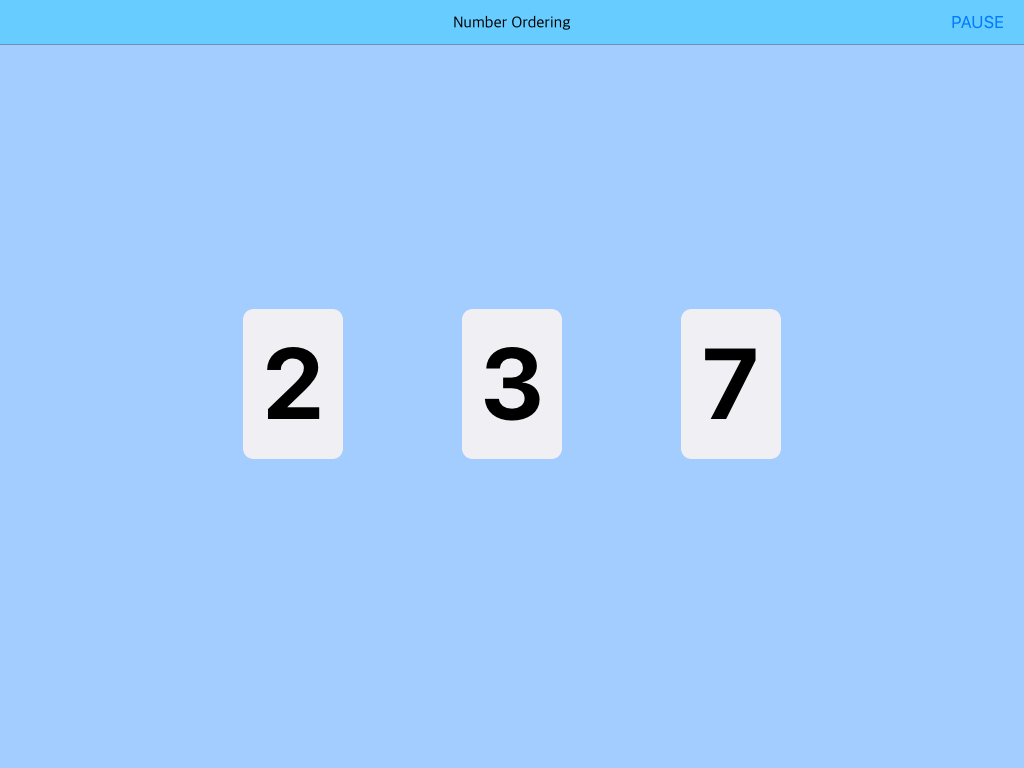
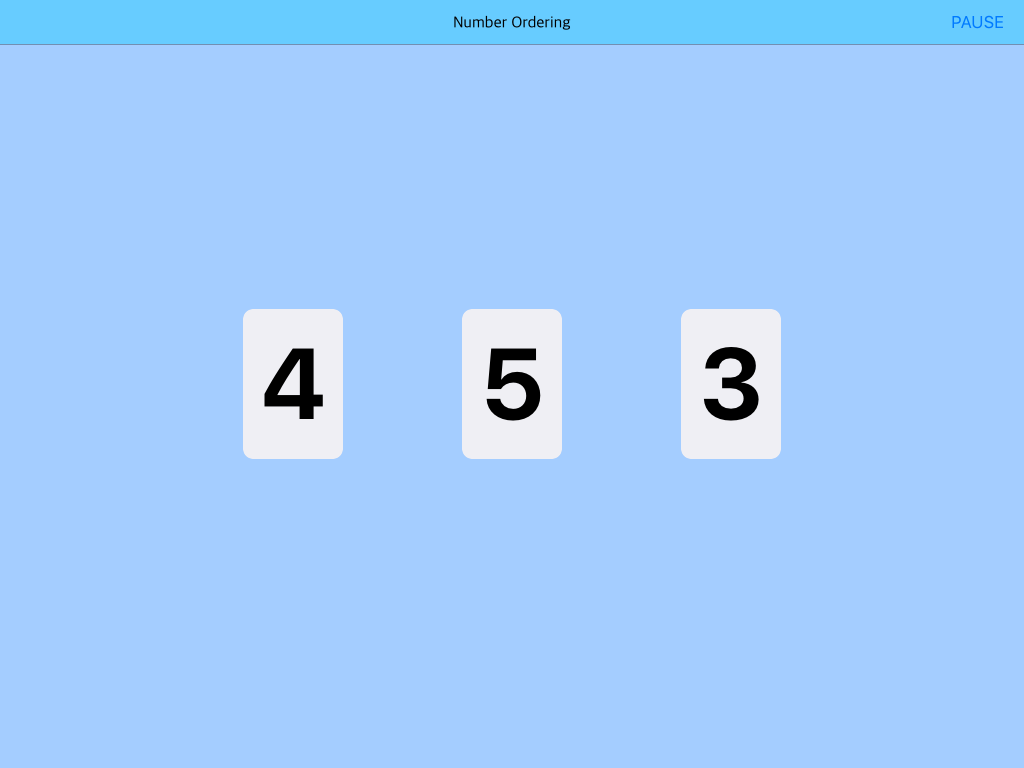
Update model pic and related ppt file

Changed region(s): [[0.6875, 0.4375, 0.75, 0.5625], [0.25, 0.4375, 0.3125, 0.5625], [0.4688, 0.4375, 0.5312, 0.5312]]

diff --git a/UK_presentation_v1.html b/UK_presentation_v1.html
@@ -191,11 +191,11 @@
                          <img class="fragment current-visible" src="img/ipadapp/numorder.png" style="position: absolute; left: 100px; top: 50px; height: 450px; width: 600px">
                         </div>
                         <div style="position:absolute; top: 80px; left: 80px; width:800px; height:600px; margin:0 auto;">
-                        <p class="fragment current-visible" style="font-size: 0.8em">Inhibitory controls (Stroop)</p>
+                        <p class="fragment current-visible" style="font-size: 0.8em">Inhibitory control (Stroop)</p>
                          <img class="fragment current-visible" src="img/ipadapp/blackwhite.png" style="position: absolute; left: 100px; top: 50px; height: 450px; width: 600px">
                         </div>
                         <div style="position:absolute; top: 80px; left: 80px; width:800px; height:600px; margin:0 auto;">
-                        <p class="fragment current-visible" style="font-size: 0.8em">Arithmetic (addition)</p>
+                        <p class="fragment current-visible" style="font-size: 0.8em">Arithmetic associations (addition)</p>
                          <img class="fragment current-visible" src="img/ipadapp/addition.png" style="position: absolute; left: 100px; top: 50px; height: 450px; width: 600px">
                         </div>
                     </section>
@@ -203,19 +203,19 @@
                 </section>
                 <section>
                     <section>
-                        <h3 style="position:absolute; top: -80px; left: 400px;">Finding</h3>
+                        <h3 style="position:absolute; top: -80px; left: 400px;">Findings</h3>
                         <p style="text-align: left">For children in grade 1 and grade 2:</p>
-                        <ul>
-                            <li class="fragment"><strong>Step 1:</strong> Examing integration status for acquisition of ordinal associations
+                        <ul style="font-size: 0.8em">
+                            <li class="fragment"><strong>Step 1: </strong>Integration status
                             </li>
-                            <li class="fragment"><strong>Step 2:</strong> How do basic associations relate to arithmetic associations ?</li>
-                            <li class="fragment"><strong>Step 3:</strong> Which basic associations predict the growth of arithmetic ?
+                            <li class="fragment"><strong>Step 2: </strong>Relations between basic and arithmetic associations</li>
+                            <li class="fragment"><strong>Step 3: </strong>Growth of arithmetic
                             </li>
                         </ul>
                         
                     </section>
                     <section>
-                        <h4 class="fragment fade-out" data-fragment-index="1">Step 1</h4>
+                        <h4 class="fragment fade-out" data-fragment-index="1">Integration status</h4>
                         <h4 class="fragment" data-fragment-index="3">When do childen integrate sequential and cardinal associations to form ordinal associations ?</h4>
                         <p class="fragment" data-fragment-index="4">Grade 2</p>
                         <div class="fragment fade-out" data-fragment-index="3" style="position:absolute; top: 10px; left: 10px; width:600px; height:600px; margin:0 auto;">
@@ -224,16 +224,16 @@
                         </div>
                     </section>
                     <section>
-                        <h4 class="fragment fade-out" data-fragment-index="1">Step 2</h4>
+                        <h4 class="fragment fade-out" data-fragment-index="1">Relations between basic and arithmetic associations</h4>
                         <div style="position:absolute; top: 10px; left: 10px; width:800px; height:600px; margin:0 auto;">
                         <img class="fragment current-visible" data-fragment-index="1" src="img/MCLS/MCLSQ2G1.png" style="position: absolute; left: 100px; top: 10px; height: 550px; width: 750px">
                         <img class="fragment current-visible" data-fragment-index="2" src="img/MCLS/MCLSQ2G2.png" style="position: absolute; left: 100px; top: 10px; height: 500px; width: 800px">
                         </div>
                     </section>
                     <section>
-                        <h4 class="fragment fade-out" data-fragment-index="1">Step 3</h4>
+                        <h4 class="fragment fade-out" data-fragment-index="1">Growth of arithmetic</h4>
                         <div style="position:absolute; top: 10px; left: 10px; width:800px; height:600px; margin:0 auto;">
-                        <img class="fragment current-visible" data-fragment-index="1" src="img/MCLS/MCLSQ3G1.png" style="position: absolute; left: 100px; top: 10px; height: 550px; width: 750px">
+                        <img class="fragment current-visible" data-fragment-index="1" src="img/MCLS/MCLSQ3G1.png" style="position: absolute; left: 100px; top: 10px; height: 550px; width: 800px">
                         <img class="fragment current-visible" data-fragment-index="2" src="img/MCLS/MCLSQ3G2.png" style="position: absolute; left: 100px; top: 10px; height: 500px; width: 800px">
                         </div>
                         <h4 class="fragment" data-fragment-index="3">Which of the basic associations support development of arithmetic associations?</h4>
